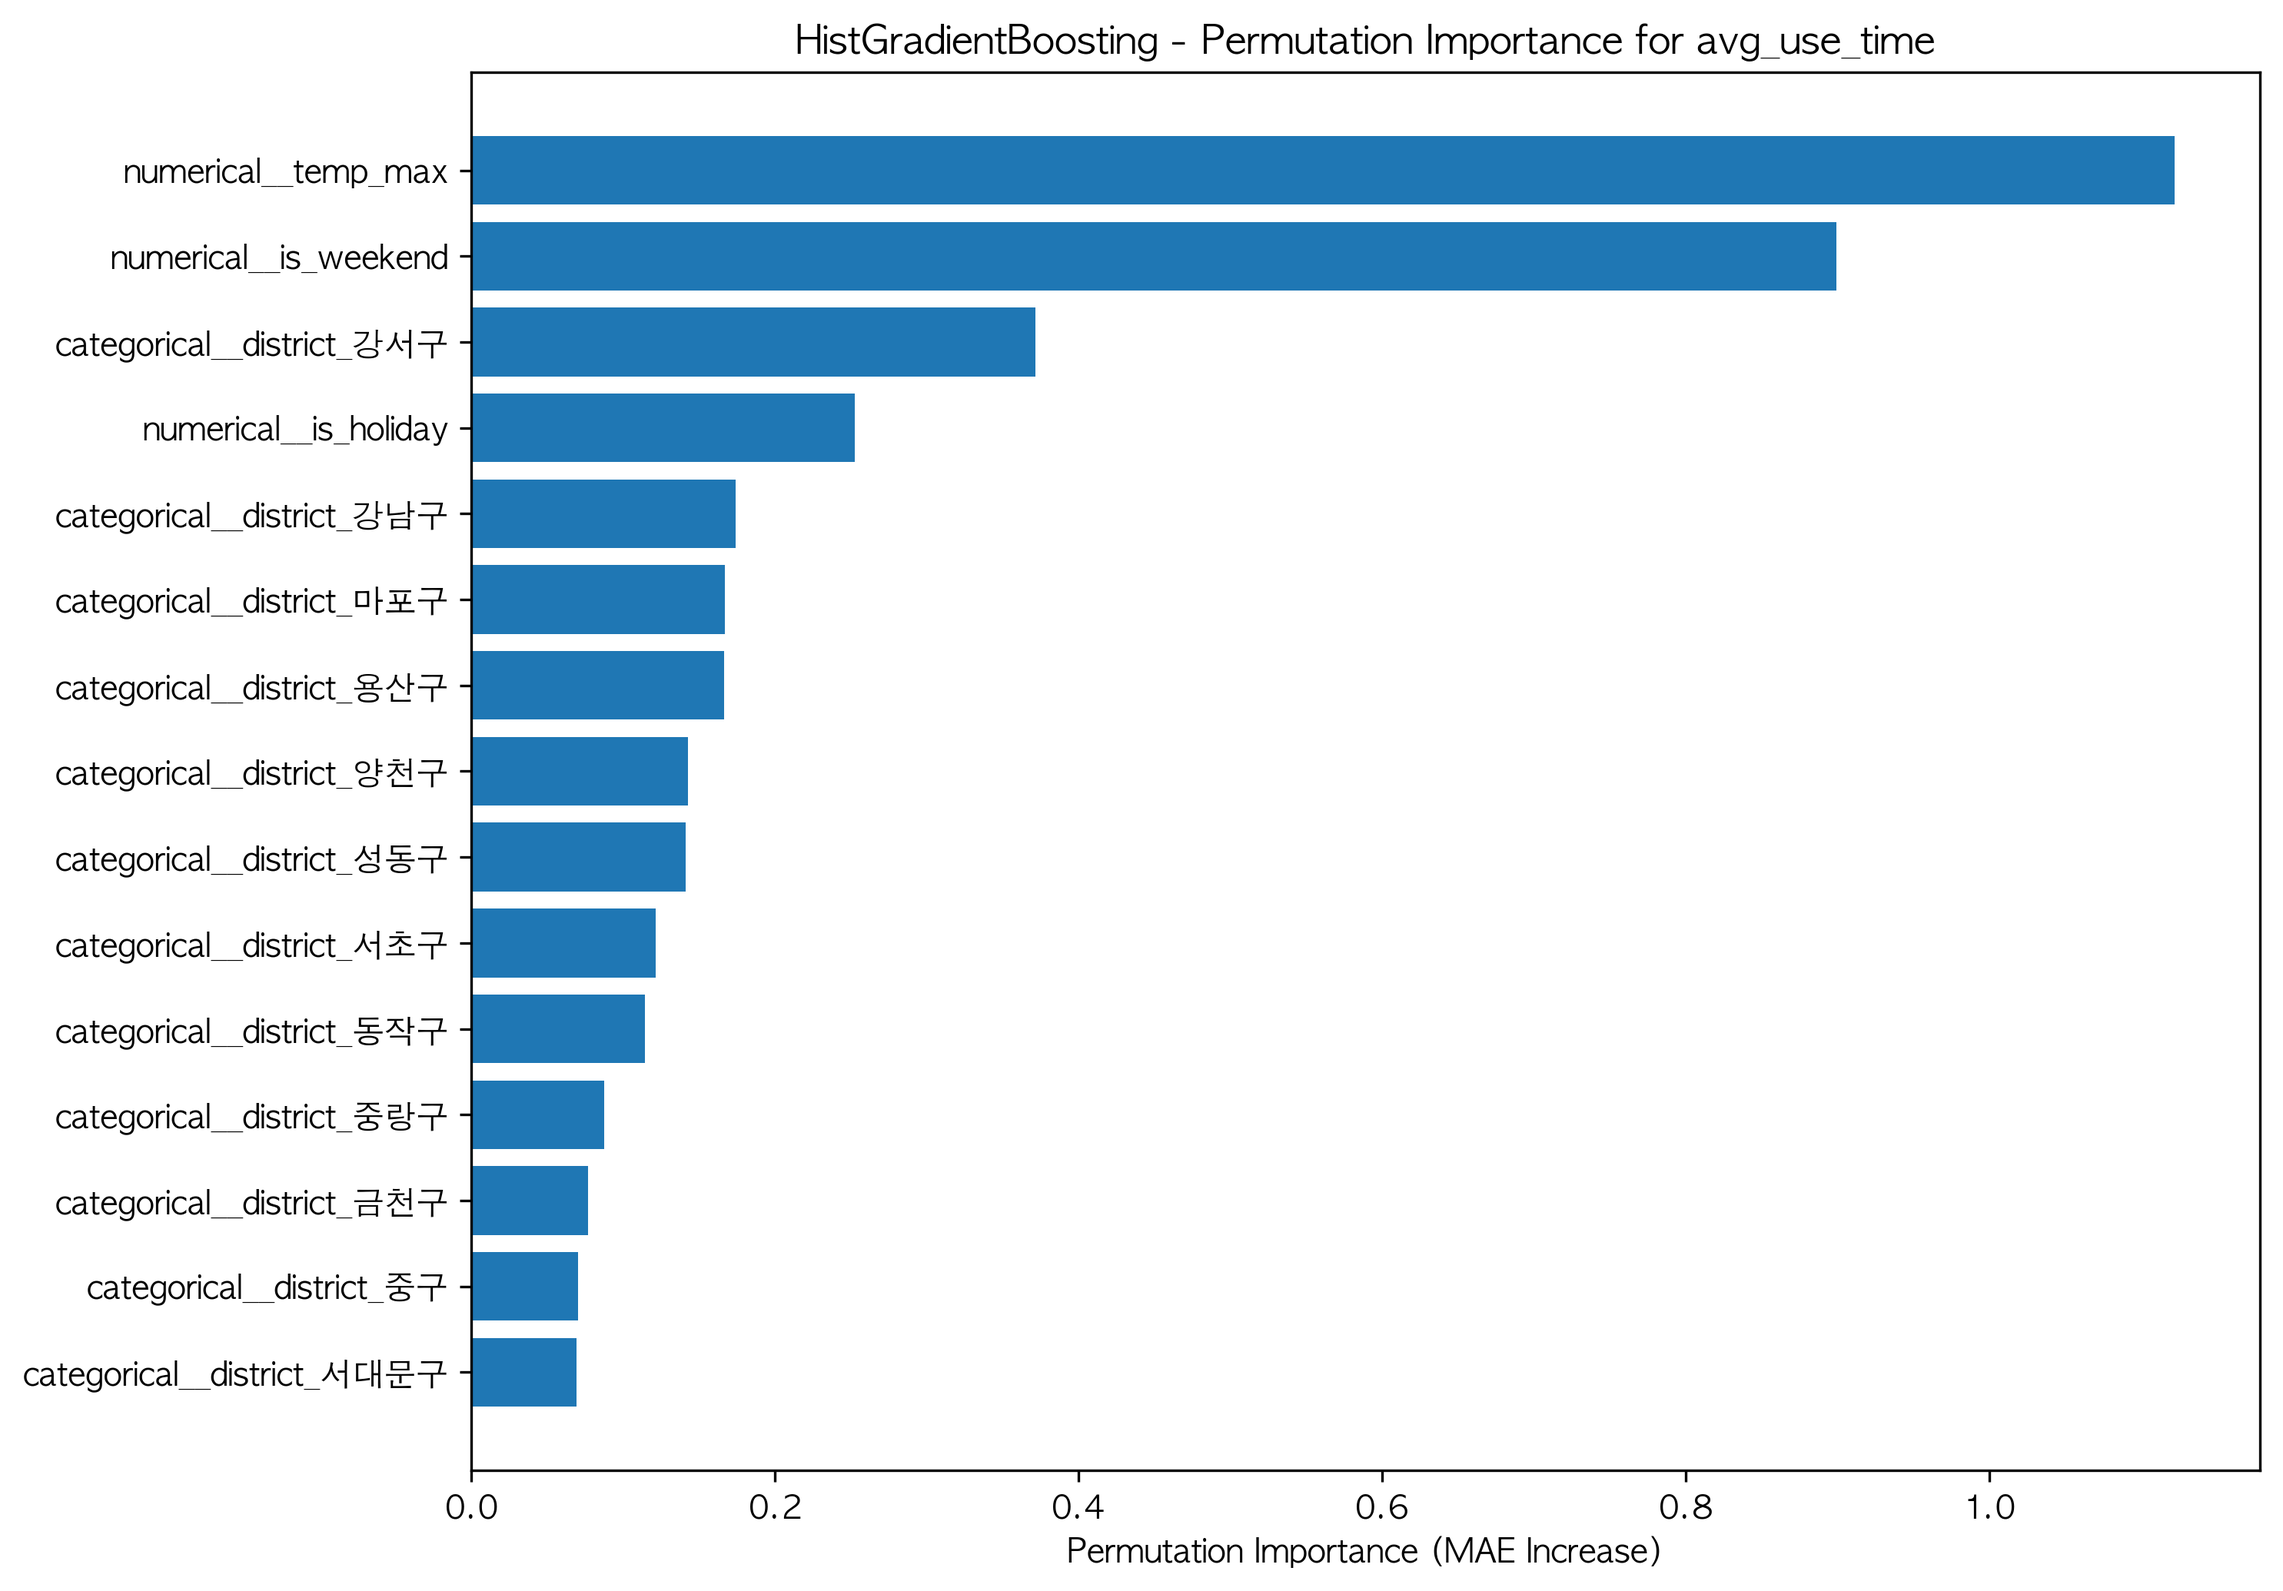
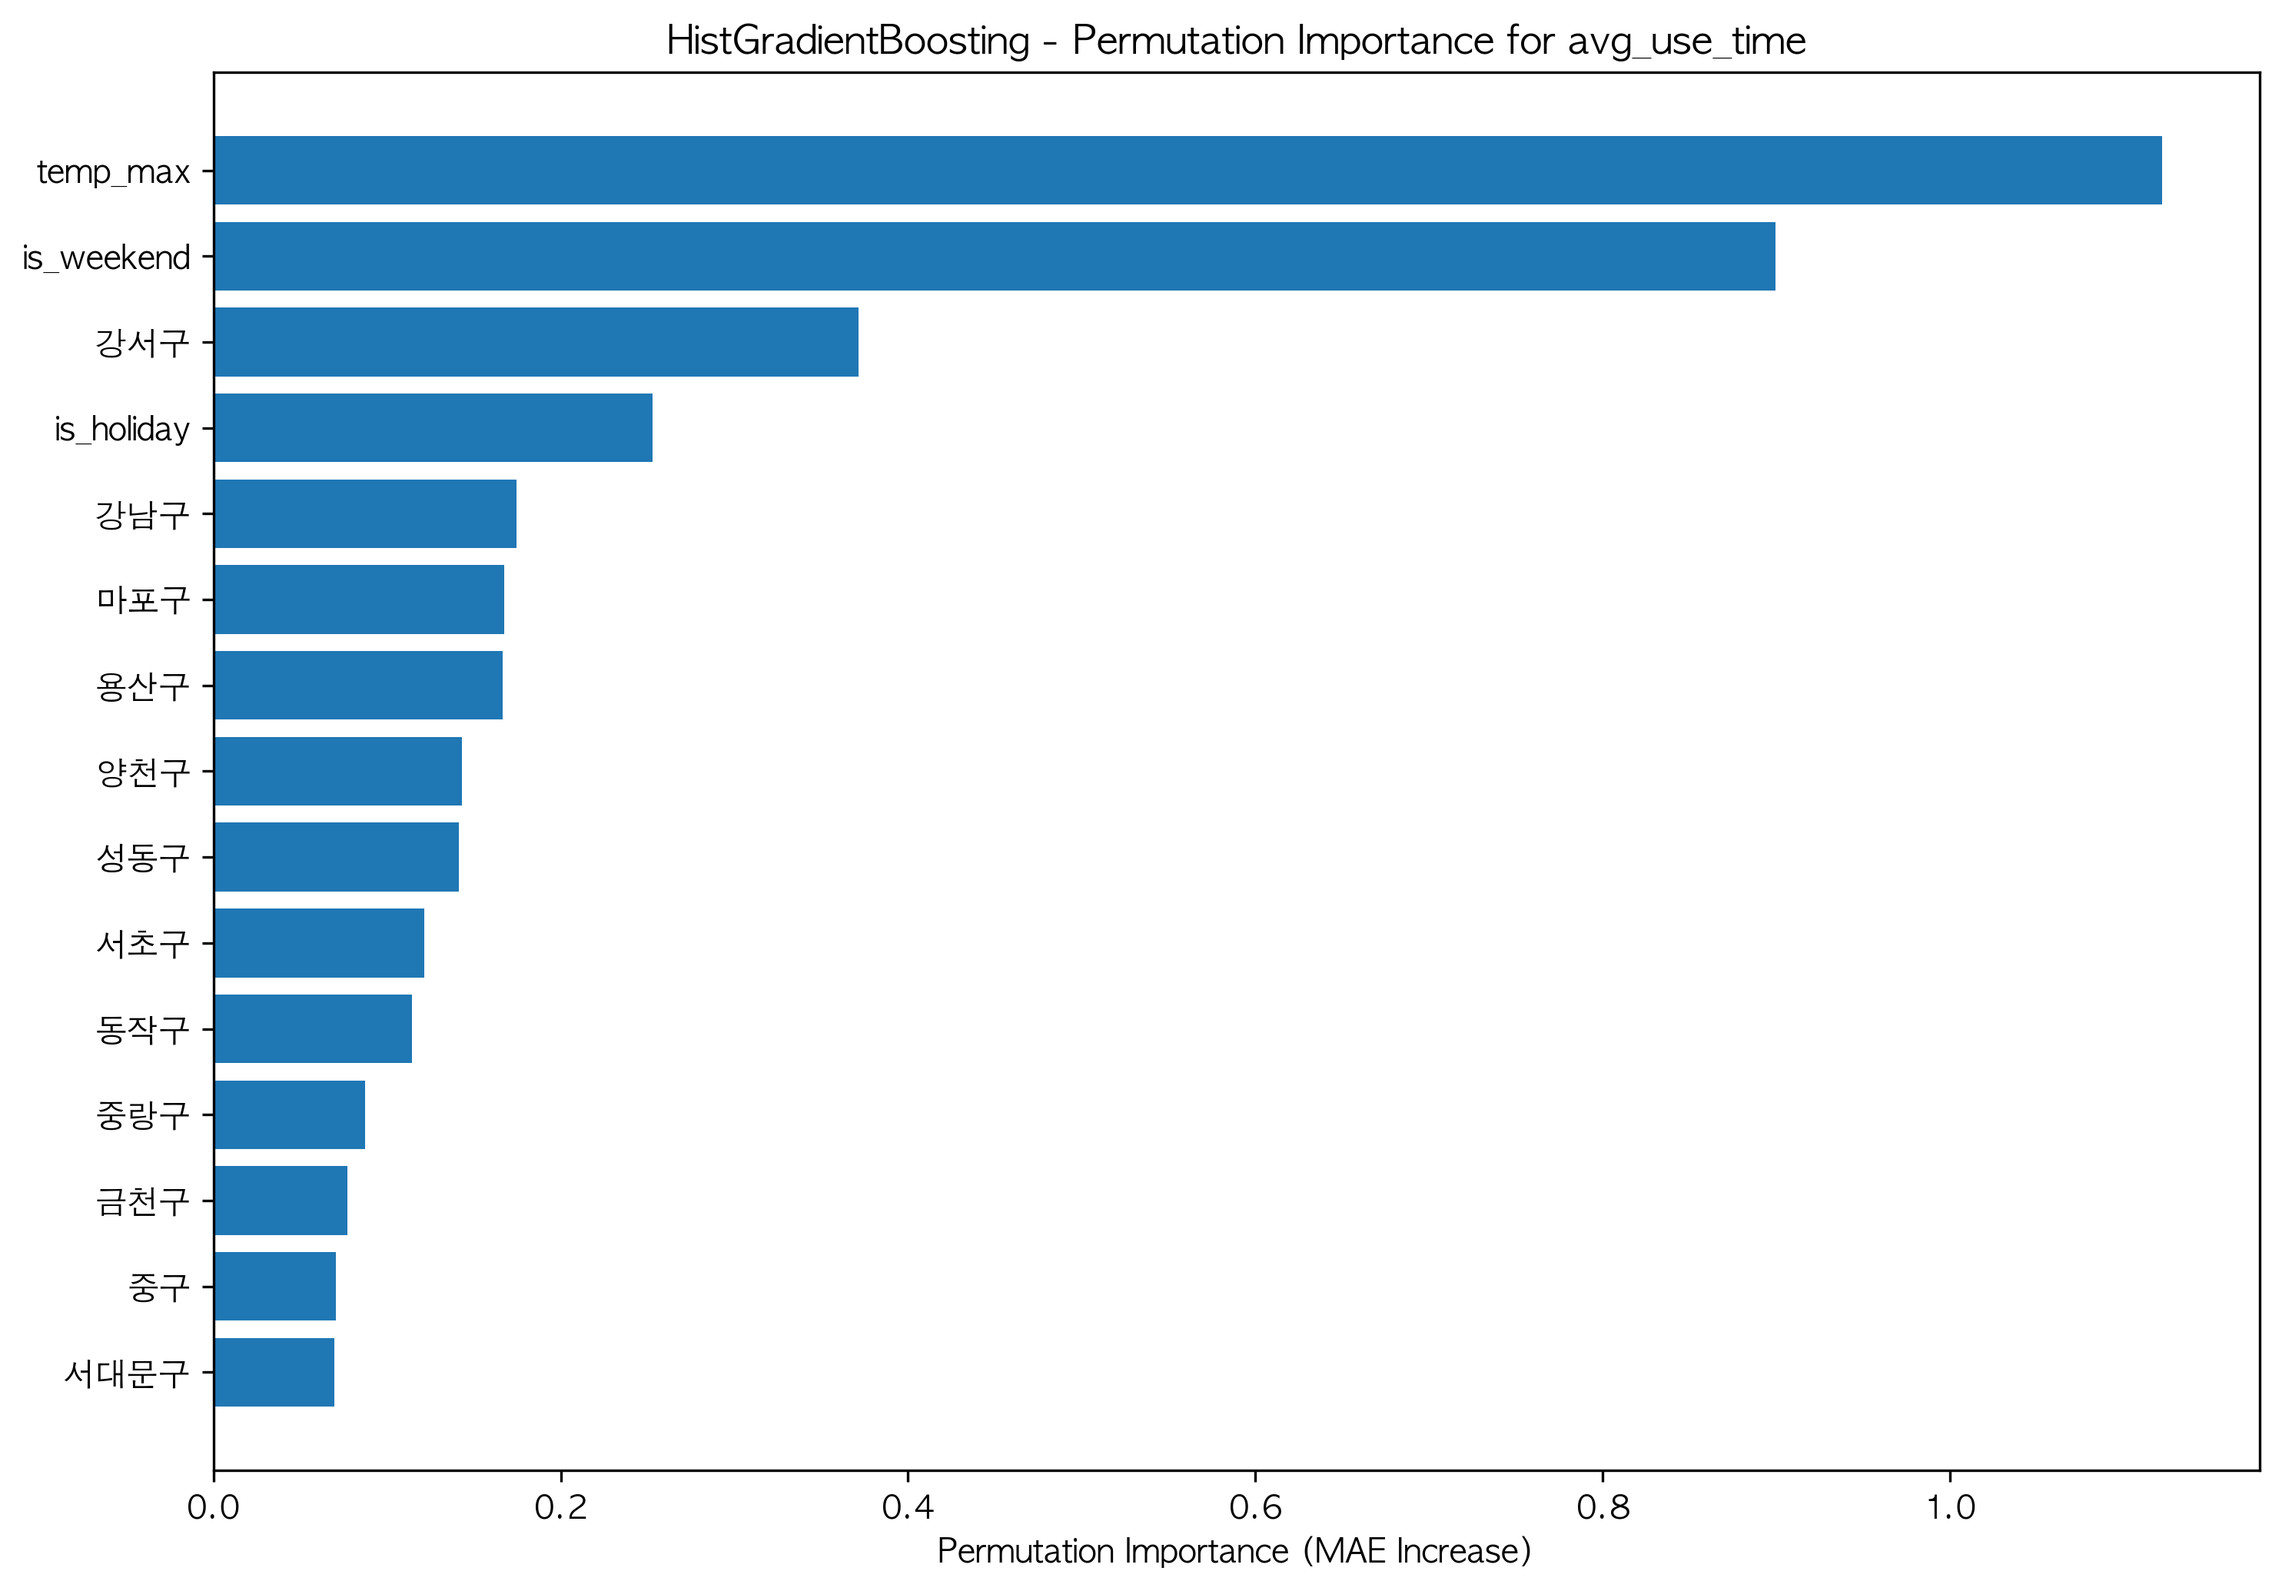
updated graph figures

diff --git a/modeling.py b/modeling.py
@@ -704,6 +704,25 @@ print(
 )
 
 ## Feature Importance
+def clean_feature_name(feature_name):
+
+    feature_name = feature_name.replace(
+        "categorical__district_",
+        ""
+    )
+
+    feature_name = feature_name.replace(
+        "categorical__day_of_week_",
+        "day_of_week: "
+    )
+
+    feature_name = feature_name.replace(
+        "numerical__",
+        ""
+    )
+
+    return feature_name
+
 ### Random Forest Feature Importance
 use_count_model = (
     trained_models["use_count"][
@@ -711,11 +730,13 @@ use_count_model = (
     ]
 )
 
-
 use_count_importance_df = pd.DataFrame({
     "feature": processed_feature_names,
     "importance": (use_count_model.feature_importances_)
 })
+
+use_count_importance_df["feature"] = use_count_importance_df["feature"].apply(clean_feature_name)
+
 
 use_count_importance_df = use_count_importance_df.sort_values("importance", ascending=False)
 
@@ -776,6 +797,8 @@ avg_use_time_importance_df = pd.DataFrame({
     "importance": avg_use_time_permutation.importances_mean,
     "importance_std": avg_use_time_permutation.importances_std
 })
+
+avg_use_time_importance_df["feature"] = avg_use_time_importance_df["feature"].apply(clean_feature_name)
 
 avg_use_time_importance_df = avg_use_time_importance_df.sort_values("importance", ascending=False)
 
